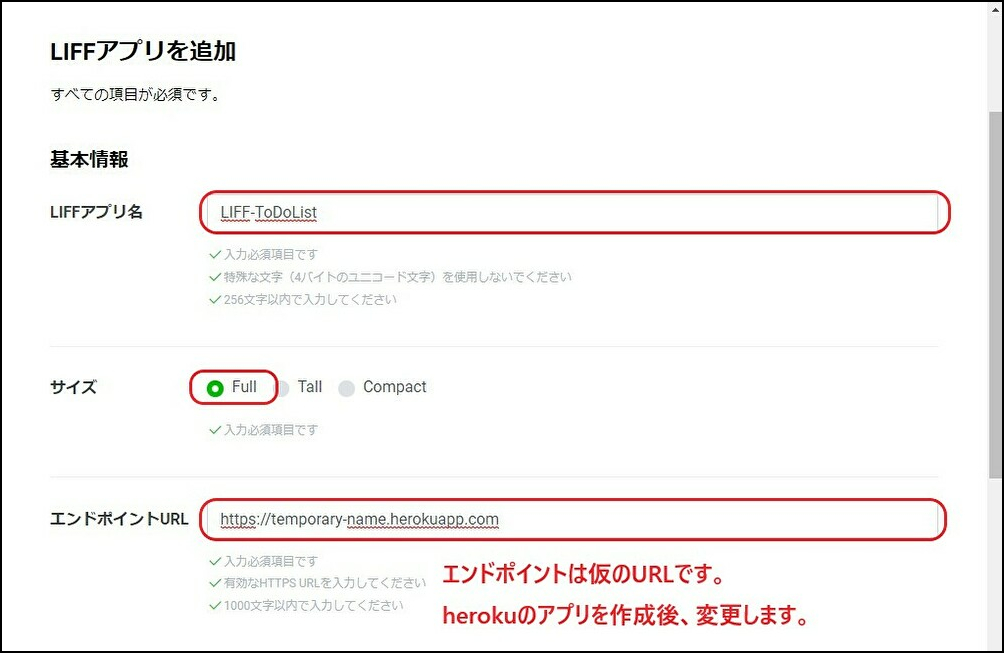
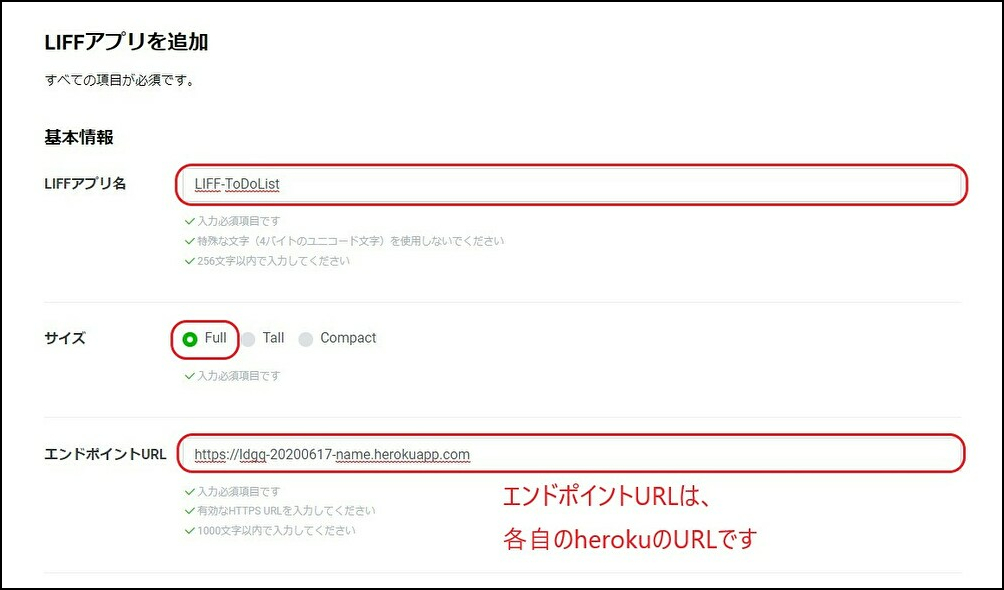
test

diff --git a/ldgq_liff_todo_course/liff_todo_scenario_2_DB/step1.md b/ldgq_liff_todo_course/liff_todo_scenario_2_DB/step1.md
@@ -1,38 +1,22 @@
-herokuでアプリを作成し、データベースを構築しましょう
+heroku上でデータベースを構築しましょう
 
-1. まずは、herokuにログインします。<br>
-Terminalで、以下のコマンドを実行します。<br>
-```shell
-heroku login --interactive
-```{{copy}}
-
-2. herokuでアプリを作成します。<br>
-無料で5つまで作成でき、クレジットカード登録したら作成枠が増えます。
-アプリの名前は一意になるようにしてください。英小文字、数字、-(ハイフン)のみ使用可能です。<br>
-```shell
-heroku create ldgq-20200617-name
-```{{copy}}
-作成されたらURLが出力されていると思います。
-LIFFのエンドポイント設定に必要となるので、アプリ名とURLを控えておいてください。<br>
-`https://ldgq-20200617-name.herokuapp.com`<br>
-
-3. ブラウザで herokuの管理画面へ、ログインし、作成したアプリをクリックします。<br>
+1. ブラウザで herokuの管理画面へ、ログインし、作成したアプリをクリックします。<br>
 <a href="https://dashboard.heroku.com/" target="_blank">https://dashboard.heroku.com/</a>
 ![heroku_app](https://raw.githubusercontent.com/MasatakaMiki/katacoda-scenarios/master/ldgq_liff_todo_course/liff_todo_scenario_2_DB/img/s0101_heroku_app.jpg)
 
-4. `Resources`をクリックし、`Add-ons`の入力欄に`Postgres`と入力します。選択肢の候補に、`Heroku Postgres`がありますので、クリックします。<br>
+2. `Resources`をクリックし、`Add-ons`の入力欄に`Postgres`と入力します。選択肢の候補に、`Heroku Postgres`がありますので、クリックします。<br>
 ![create_db](https://raw.githubusercontent.com/MasatakaMiki/katacoda-scenarios/master/ldgq_liff_todo_course/liff_todo_scenario_2_DB/img/s0102_create_db.jpg)
 
-5. `Plan name`に、<font color="red">必ず`Hobby Dev - Free`を選択し、</font>`Provision`ボタンをクリックします。<br>
+3. `Plan name`に、<font color="red">必ず`Hobby Dev - Free`を選択し、</font>`Provision`ボタンをクリックします。<br>
 ![create_db](https://raw.githubusercontent.com/MasatakaMiki/katacoda-scenarios/master/ldgq_liff_todo_course/liff_todo_scenario_2_DB/img/s0103_create_db.jpg)
 
-6. 準備された、`Heroku Postgres`をクリックします。<br>
+4. 準備された、`Heroku Postgres`をクリックします。<br>
 ![create_db](https://raw.githubusercontent.com/MasatakaMiki/katacoda-scenarios/master/ldgq_liff_todo_course/liff_todo_scenario_2_DB/img/s0104_create_db.jpg)
 
-7. データベースの管理画面が開きますので、`Setings`をクリックし、`View Credentials...`ボタンをクリックします。<br>
+5. データベースの管理画面が開きますので、`Setings`をクリックし、`View Credentials...`ボタンをクリックします。<br>
 ![create_db](https://raw.githubusercontent.com/MasatakaMiki/katacoda-scenarios/master/ldgq_liff_todo_course/liff_todo_scenario_2_DB/img/s0105_create_db.jpg)
 
-8. Host、Database、User、Port、Passwordをメモしておきます。<br>
+6. Host、Database、User、Port、Passwordをメモしておきます。<br>
 ![create_db](https://raw.githubusercontent.com/MasatakaMiki/katacoda-scenarios/master/ldgq_liff_todo_course/liff_todo_scenario_2_DB/img/s0106_create_db.jpg)
 
 次のステップでは、データベースにテーブルを作っていきますよ！

diff --git a/ldgq_liff_todo_course/liff_todo_scenario_1_LINE/step3.md b/ldgq_liff_todo_course/liff_todo_scenario_1_LINE/step3.md
@@ -1,4 +1,4 @@
-それでは早速、LINEの開発者向けコンソールからLIFFを作っていきましょう
+それでは、LINEの開発者向けコンソールからLIFFを作っていきましょう
 
 1. ブラウザで LINE Developers Console を開き、ログインします<br>
 <a href="https://developers.line.biz/console/" target="_blank">https://developers.line.biz/console/</a>
@@ -28,16 +28,15 @@
 <table><tr><th>項目</th><th>値</th></tr>
 <tr><td>①LIFFアプリ名</td><td>LIFF-ToDoList</td></tr>
 <tr><td>②サイズ</td><td>Full</td></tr>
-<tr><td>③エンドポイント</td><td>https://temporary-name.herokuapp.com</td></tr>
+<tr><td>③エンドポイント</td><td><font color="red">前のステップで控えたheroku URL</font></td></tr>
 <tr><td>④Scope</td><td>チェックを<font color="red">3つ</font>に入れる</td></tr>
 <tr><td>⑤ボットリンク機能</td><td>On(Normal)</td></tr>
 </table>
-<font color="red">※エンドポイントは仮のURLです。herokuのアプリ作成後変更します。</font><br>
 <font color="red">※Scopeは`すべて表示`をクリックしないと`chat_message.write`にチェックを入れることができないので注意</font>
 ![create_liff](https://raw.githubusercontent.com/MasatakaMiki/katacoda-scenarios/master/ldgq_liff_todo_course/liff_todo_scenario_1_LINE/img/s0306_liff_setting.jpg)
 ![create_liff](https://raw.githubusercontent.com/MasatakaMiki/katacoda-scenarios/master/ldgq_liff_todo_course/liff_todo_scenario_1_LINE/img/s0307_liff_setting.jpg)
 
-8. 追加ボタンをクリックすると、LIFFのURLが生成されますので、控えておいてください<br>
+8. 追加ボタンをクリックすると、LIFFのURLが生成されますので、LIFF URLとLIFF IDを控えておいてください<br>
 `https://liff.line.me/9999999999-xxxxxxxx`<br>
 <font color="red">LIFF URLの最後の/(スラッシュ)以降が、LIFFのIDです</font><br>
 ![create_liff](https://raw.githubusercontent.com/MasatakaMiki/katacoda-scenarios/master/ldgq_liff_todo_course/liff_todo_scenario_1_LINE/img/s0308_liff_url.jpg)
@@ -47,4 +46,4 @@
 ![create_liff](https://raw.githubusercontent.com/MasatakaMiki/katacoda-scenarios/master/ldgq_liff_todo_course/liff_todo_scenario_1_LINE/img/s0310_stp.jpg)
 ![create_liff](https://raw.githubusercontent.com/MasatakaMiki/katacoda-scenarios/master/ldgq_liff_todo_course/liff_todo_scenario_1_LINE/img/s0311_stp.jpg)
 
-これで、LIFFの準備は完了しました。続いてボットを作成します！
+これで、LIFFの準備は完了しました。それでは、またherokuに戻って、アプリをデプロイ（展開）していきます！

diff --git a/ldgq_liff_todo_course/liff_todo_scenario_1_LINE/step5.md b/ldgq_liff_todo_course/liff_todo_scenario_1_LINE/step5.md
@@ -1,4 +1,4 @@
-続いてLINEボットを作成し、メニューからLIFFを呼び出せるように準備します
+続いてLINEボットを作成し、メニューからLIFFを呼び出せるようにします
 
 1. <a href="https://developers.line.biz/console/" target="_blank">LINE Developers</a>のページから`新規チャネル作成`をクリックします<br>
 ![create_channel](https://raw.githubusercontent.com/MasatakaMiki/katacoda-scenarios/master/ldgq_liff_todo_course/liff_todo_scenario_1_LINE/img/s0501_create_channel.jpg)
@@ -76,5 +76,4 @@
 <a href="https://developers.line.biz/console/" target="_blank">LINE Developers</a>のページに戻り、`Messaging API設定`をクリックします。そこに表示されているQRコードをLINEのアプリから読み取って友達になります。<br>
 ![be_friend](https://raw.githubusercontent.com/MasatakaMiki/katacoda-scenarios/master/ldgq_liff_todo_course/liff_todo_scenario_1_LINE/img/s0522_be_friend.jpg)
 
-これでトークルームのリッチメニューからLIFFが起動する準備ができました。<br>
-（エンドポイントが仮のURLなので、起動はしません）
+これでトークルームのリッチメニューからもLIFFが起動するようになりました！

diff --git a/ldgq_liff_todo_course/liff_todo_scenario_2_DB/intro.md b/ldgq_liff_todo_course/liff_todo_scenario_2_DB/intro.md
@@ -3,13 +3,7 @@
 この教材は、<a href="https://developers.line.biz/ja/docs/liff/trying-liff-app/" target="_blank">LIFFスターターアプリを試してみる</a>に基づいて作成しました。<br>
 herokuに、LIFF v2 スターターアプリをデプロイし、LIFFの機能を確認します。<br>
 <br>
-このシナリオでは、herokuにアプリを作成し、データベース（PostgreSQL）の構築を行います。<br>
-<br>
-【事前準備】<br>
-・herokuにログインできるようにしておいてください(https://jp.heroku.com/free)<br>
+このシナリオでは、heroku上でデータベース（PostgreSQL）の構築を行います。<br>
 <br>
 <br>
-Katacodaの環境ではなく、各自のローカル環境でこの教材の作業を行う場合は、上記の他に Node.js、git、heroku CLI のインストールが必要です。
-<br>
-<br>
-それでは、START SENARIO ボタンをクリックして、はじめましょう！
+それでは早速、START SENARIO ボタンをクリックして、はじめましょう！

diff --git a/ldgq_liff_todo_course/liff_todo_scenario_1_LINE/step4.md b/ldgq_liff_todo_course/liff_todo_scenario_1_LINE/step4.md
@@ -1,4 +1,4 @@
-LIFFの準備も整いました。herokuにアプリをデプロイ（展開）していきましょう。
+LIFFの準備が整いました。herokuにアプリをデプロイ（展開）していきましょう。
 
 1. herokuの環境変数にLIFF IDを設定します<br>
 ```shell
